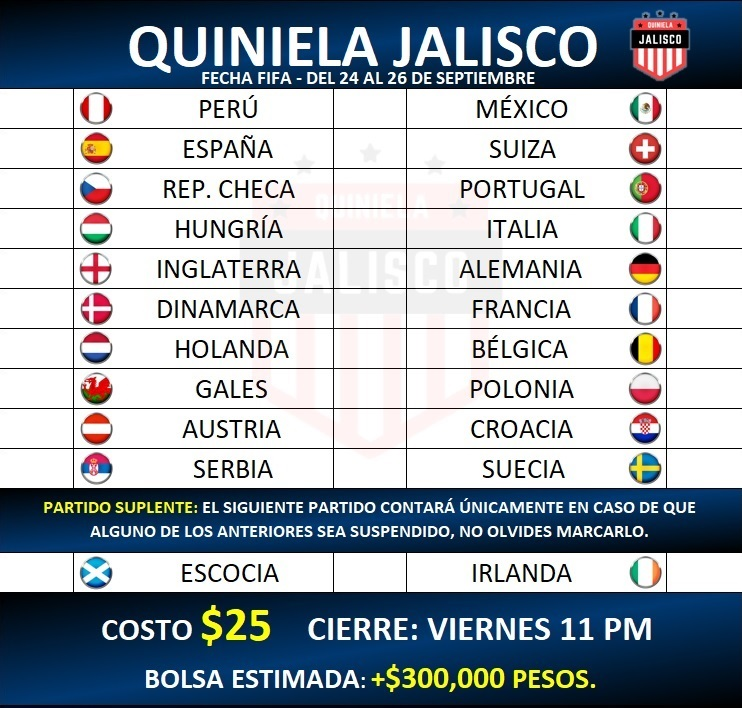
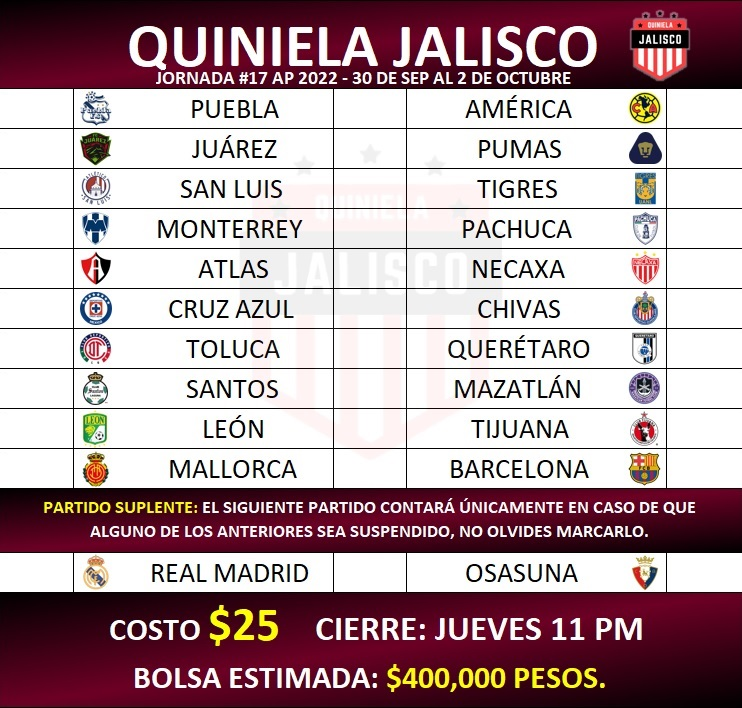
Jornada 17 A22

diff --git a/index.html b/index.html
@@ -6,7 +6,7 @@
     <meta name="viewport" content="width=device-width, initial-scale=1.0, user-scalable=no">
     <meta name="description" content="Quiniela Liga MX - ¡Registra aquí tus quinielas! - Quiniela Jalisco">
     <meta name="keywords" content="Quiniela, Liga MX, Apostar, Pronósticos">
-    <title>Quiniela Liga MX - Fecha FIFA</title>
+    <title>Quiniela Liga MX - Jornada 17</title>
     <link href="https://fonts.googleapis.com/css2?family=Roboto&display=swap" rel="stylesheet">
     <link rel="stylesheet" href="https://cdn.jsdelivr.net/npm/bootstrap@5.2.0/dist/css/bootstrap.min.css" crossorigin="anonymous">
     <link href="https://fonts.googleapis.com/icon?family=Material+Icons" rel="stylesheet">

diff --git a/11/styles11.css b/11/styles11.css
@@ -89,12 +89,12 @@ body{
 #text{
     font-weight: bold;
     text-align: center;
-    color: #00ff3b;
+    color: #fffa00;
     margin-top: 9%;
     border: solid 1px black;
     border-radius: 0 0 14px 14px;
-    background: -webkit-linear-gradient(0.51turn, rgb(0,53,105)  ,rgb(0,0,0) 80%);
-    background: linear-gradient(0.51turn, rgb(0,53,105)  ,rgb(0,0,0) 80%);
+    background: -webkit-linear-gradient(0.5turn, rgb(108,0,36)  ,rgb(0,0,0) 80%);
+    background: linear-gradient(0.5turn, rgb(108,0,36)  ,rgb(0,0,0) 80%);
 }
 
 .text-lg{
@@ -288,7 +288,7 @@ h6{
 }
 
 #cantidad:before{
-    content:'+$300,000 pesos ';
+    content:'$400,000 pesos ';
     color: yellow;
     white-space:pre;
 }
